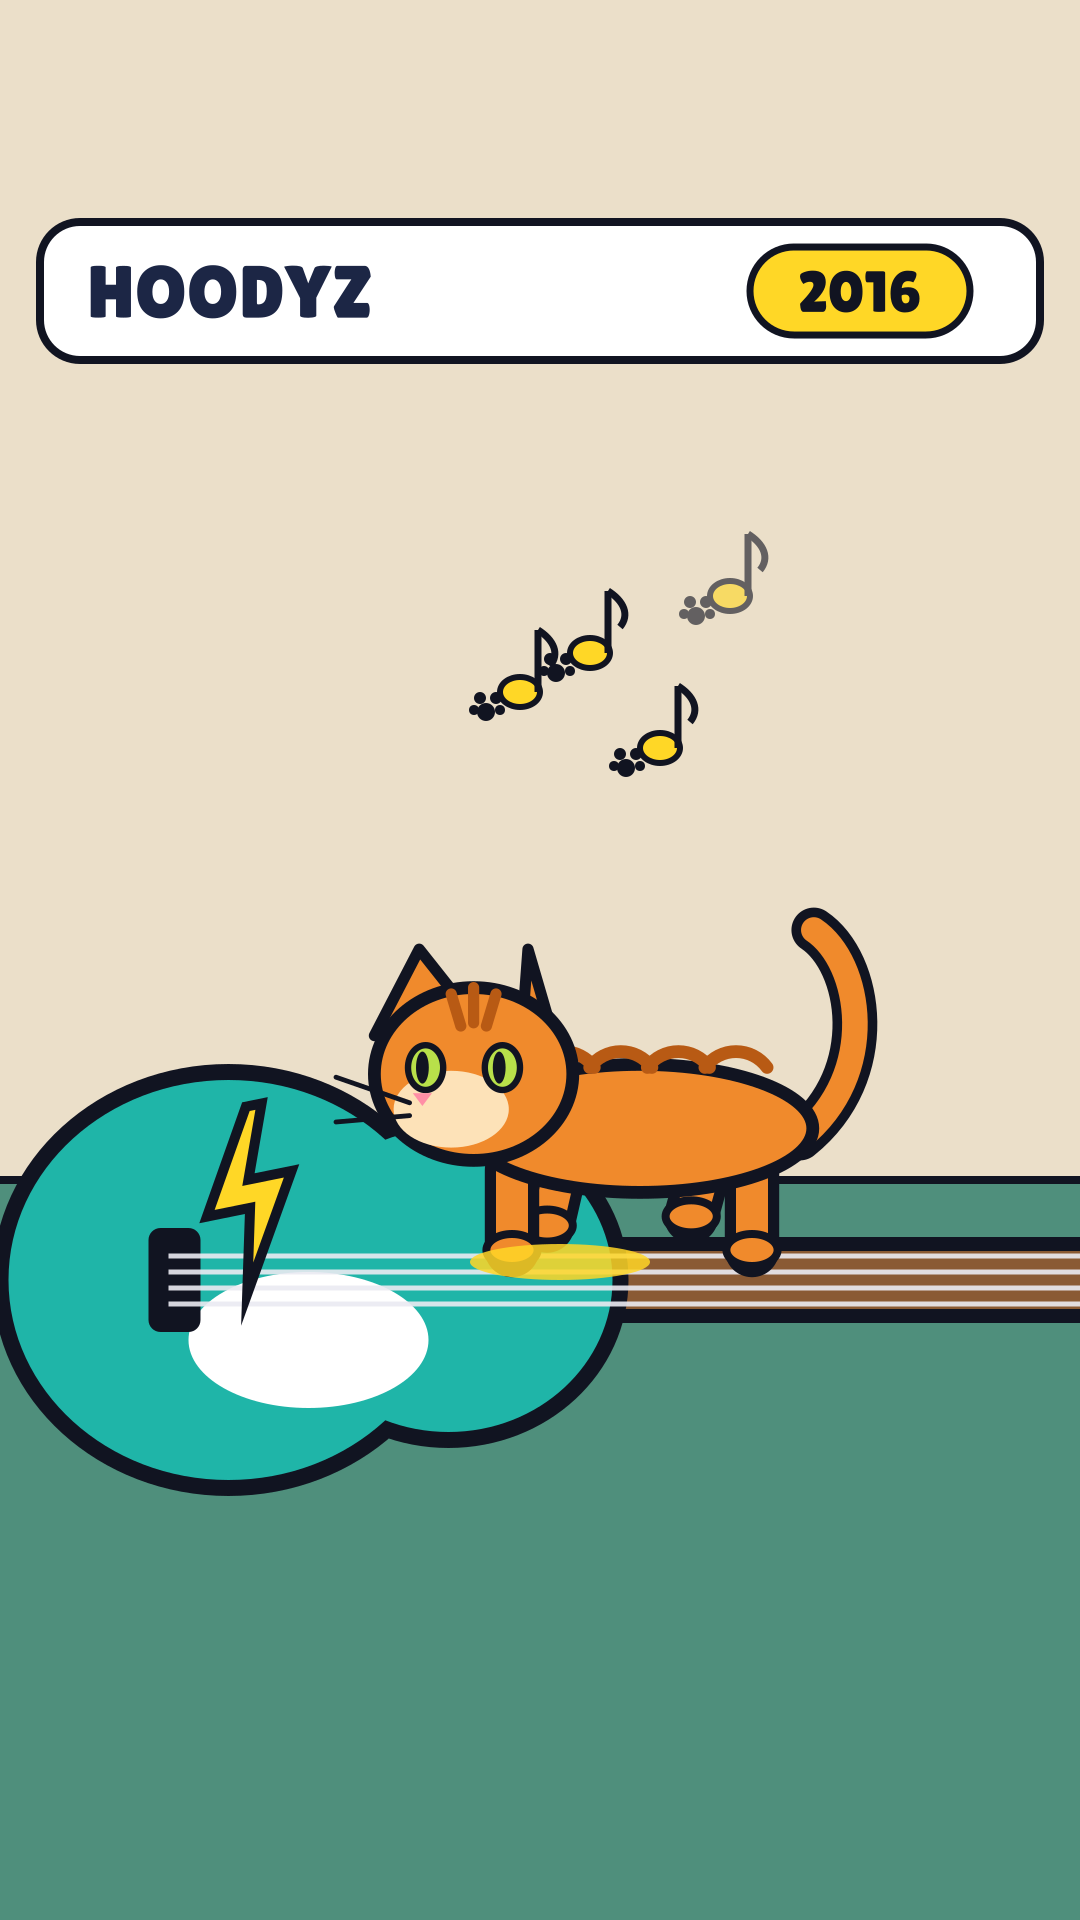
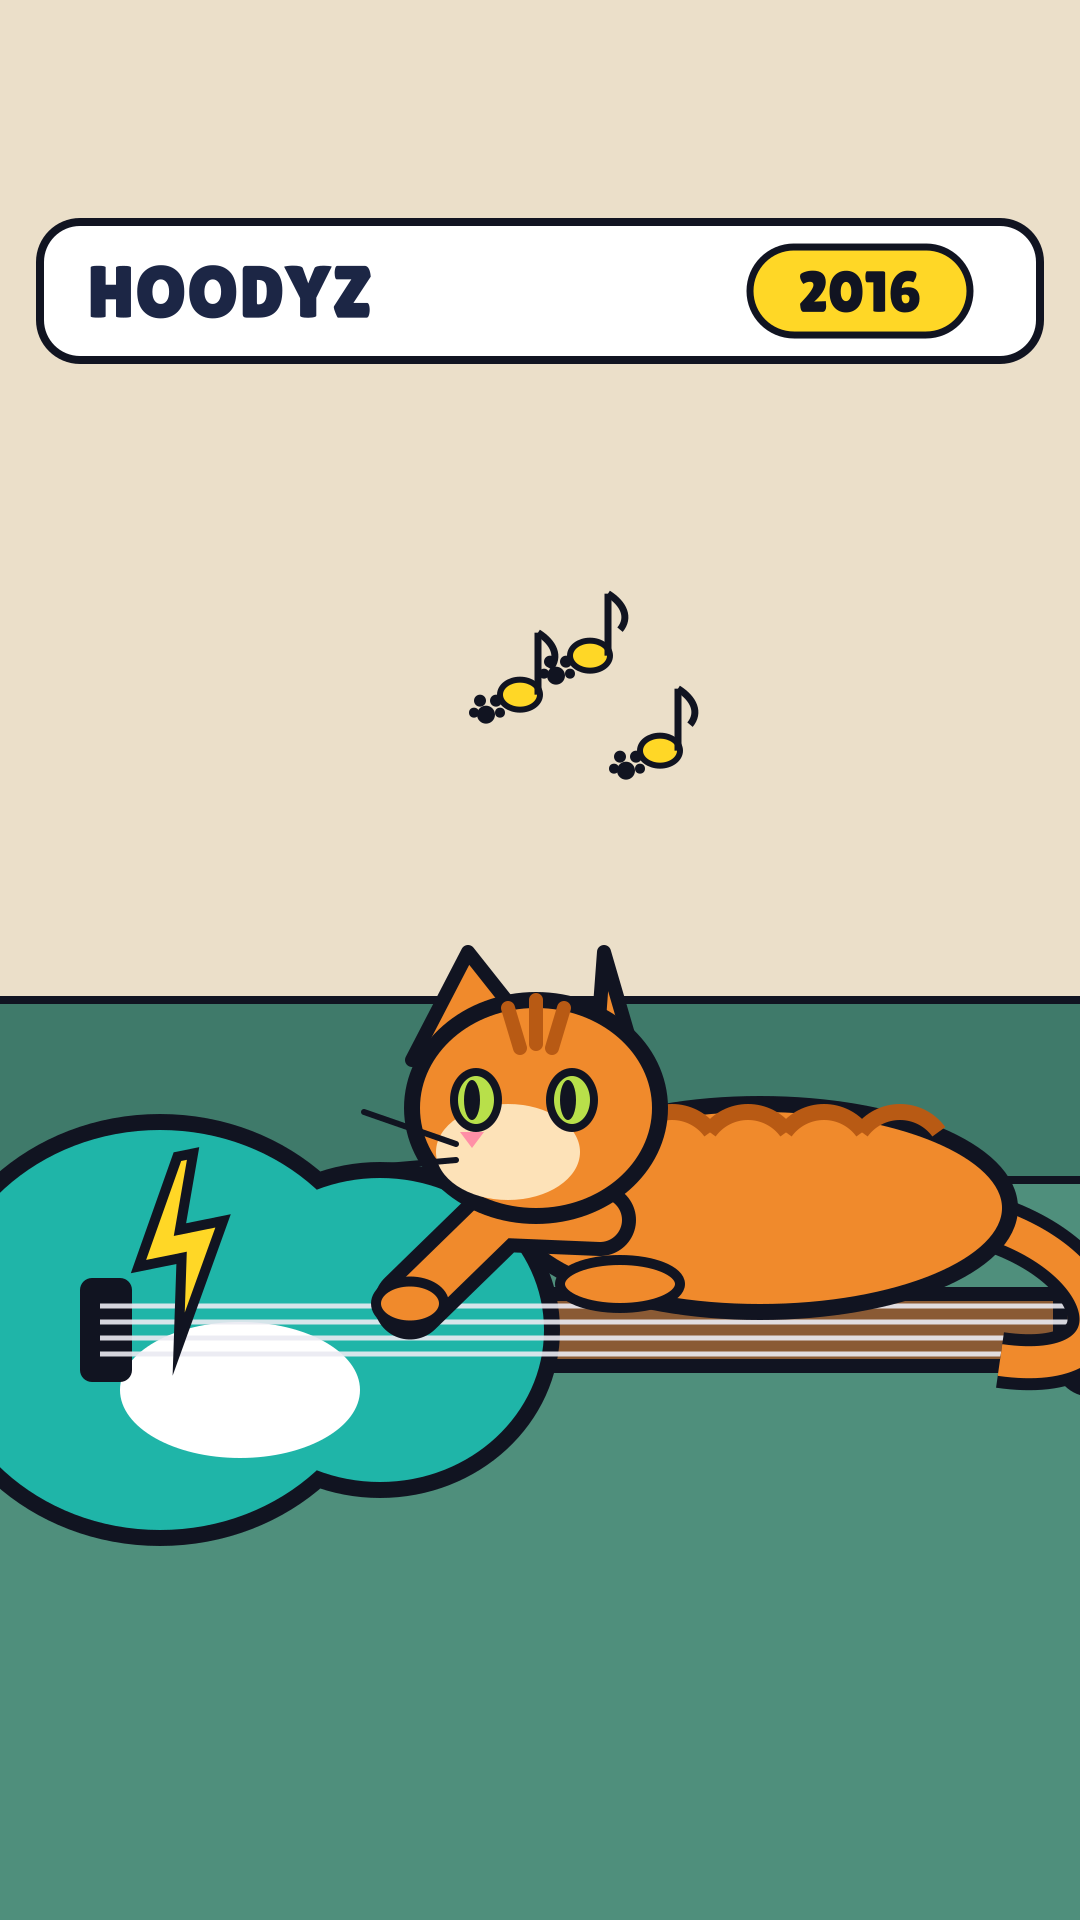
Make It Original v2: stadium fantasy (shots 1, 2, 16), lazy cat with a yawn (shot 7)
Claude-Session: https://claude.ai/code/session_01ED8DLRS3kXn1pdhXqYBM3Q

diff --git a/make-it-original/v2/shots.py b/make-it-original/v2/shots.py
@@ -19,8 +19,8 @@ SHOTS = [(1, 0.0, 0.8), (2, 0.8, 1.9), (3, 1.9, 3.4), (4, 3.4, 3.9), ('ff1', 3.9
          (5, 4.3, 5.3), (6, 5.3, 5.7), (7, 5.7, 7.6), (8, 7.6, 8.3), ('ff2', 8.3, 8.7),
          (9, 8.7, 9.2), (10, 9.2, 11.0), (11, 11.0, 11.5), (12, 11.5, 13.3), (13, 13.3, 14.5),
          (14, 14.5, 15.0), (15, 15.0, 16.0), (16, 16.0, 17.3), (17, 17.3, END)]
-KEY_T = {1: .5, 2: 1.55, 3: 2.75, 4: 3.8, 5: 5.15, 6: 5.55, 7: 6.6, 8: 8.0, 9: 9.0, 10: 9.9, 11: 11.4,
-         12: 12.95, 13: 13.95, 14: 14.85, 15: 15.6, 16: 16.45, 17: 18.6}
+KEY_T = {1: .5, 2: 1.5, 3: 2.75, 4: 3.8, 5: 5.15, 6: 5.55, 7: 6.55, 8: 8.0, 9: 9.0, 10: 9.9, 11: 11.4,
+         12: 12.95, 13: 13.95, 14: 14.85, 15: 15.6, 16: 16.25, 17: 18.6}
 CHARS = True     # False: draw sets only (used for the silhouette check)
 
 # ---------------- lip flap ----------------
@@ -152,12 +152,11 @@ def bar_and_subs(c, t, year):
     sub(c, t, E['orig'], END, "NOW THAT'S ORIGINAL!")
 
 # ---------------- the shots ----------------
-def s1(c, t, f):   # wide 1986, slow push-in
-    k = lerp(1.0, 1.05, t / .8); cam(c, k, 540, 1060, 540, 1060); garage(c, t)
-    if CHARS:
-        drummer_world(c, t, f)
-        hoodyz(c, HX, HGY, HS, 1986, 'rocking', 'play', f, strum=strum_at(t, R86))
-    motif(c, t, R86, 470, 760)
+def s1(c, t, f):   # frame 0: the stadium fantasy, wide, slow push-in
+    k = lerp(1.0, 1.05, t / .8); cam(c, k, 540, 1060, 540, 1060)
+    stadium(c, t, wide=True)
+    if CHARS: hoodyz(c, 540, 1460, 1.0, 1986, 'rocking', 'play', f, strum=strum_at(t, R86))
+    crowd(c, t, 1600); motif(c, t, R86, 620, 820); dream_edge(c)
 
 def portrait(c, t, f, era, pose, expr, strum=0, rot=0, sway=0, lean=0):
     """Matched performance framing (shots 2 and 16): same position, size and sway in both eras."""
@@ -165,12 +164,12 @@ def portrait(c, t, f, era, pose, expr, strum=0, rot=0, sway=0, lean=0):
     if CHARS: hoodyz(c, 540, 1800, 1.7, era, expr, pose, f, strum=strum, head_rot=rot, lean=lean, op=lip('hoodyz', f))
 
 def s2(c, t, f):   # MCU 1986: lost in it, strum hand goes up on the last note
-    bg_garage_close(c)
+    stadium(c, t, wide=False)
     last = R86 + ONSETS[-1]
     pose = 'proud' if t >= last else 'play'
     sway = .03 * math.sin((t - R86) / S16 * math.pi / 2)
     portrait(c, t, f, 1986, pose, 'rocking', strum_at(t, R86), rot=-.1 if t >= last else 0, sway=sway, lean=-.05 if t >= last else 0)
-    motif(c, t, R86, 640, 760, 1.2)
+    crowd(c, t, 1640); motif(c, t, R86, 640, 760, 1.2); dream_edge(c)
 
 def gesture_frame(c, t, f, who, t0, era_bg):
     """Matched gesture framing (shots 3 and 13): the gesturer at the same screen spot, size and arm path."""
@@ -247,19 +246,22 @@ def s6(c, t, f):   # insert: the guitar lands on the couch
             a = math.pi + i * math.pi / 4; c.move_to(380 + math.cos(a) * 200, 1300 + math.sin(a) * 90); c.line_to(380 + math.cos(a) * 280, 1300 + math.sin(a) * 130)
             c.set_source_rgb(*INK); c.set_line_width(8); c.stroke()
 
-def s7(c, t, f):   # low close-up on the paws; the camera pans with the cat
-    c.set_source_rgb(*hx('ebdfc9')); c.paint(); rr(c, -60, 1180, 1200, 760, 60); fs(c, hx('4f8f7c'))
-    tc = t - E['cat16']
-    gx = 150 + max(0, tc + .15) * 230                                       # the guitar slides right = camera follows the cat left
-    guitar(c, gx, 1280, 2.0, rot=0)
-    on = [i for i, o in enumerate(ONSETS) if 0 <= tc - o < .1]
-    if CHARS: cat(c, 640, 1250, 1.6, 'walk', phase=t * 3, paw_down=(on[0] % 4) if on else None, f=f)
-    for i in on:
-        ell(c, 560, 1262, 90, 18); c.set_source_rgba(*YEL, .85); c.fill()
+def s7(c, t, f):   # the lazy cat: lying on the couch, one paw per note, then a yawn
+    c.set_source_rgb(*hx('ebdfc9')); c.paint(); rr(c, -60, 1000, 1200, 300, 60); fs(c, hx('3f7a6a')); rr(c, -60, 1180, 1200, 760, 60); fs(c, hx('4f8f7c'))
+    guitar(c, 300, 1330, 2.0, rot=0)
+    tc = t - E['cat16']; paw = 0
+    for o in ONSETS:
+        d = tc - o
+        if -.08 <= d < 0: paw = max(paw, 1 + d / .08)
+        elif 0 <= d < .15: paw = max(paw, 1 - d / .15 * .7)
+    yawn = math.sin(math.pi * cl((t - 7.25) / .45)) if t > 7.25 else 0
+    if CHARS:
+        tip = lazy_cat(c, 760, 1300, 2.0, paw, yawn, f)
+        if any(0 <= tc - o < .08 for o in ONSETS): ell(c, tip[0], 1330, 80, 18); c.set_source_rgba(*YEL, .85); c.fill()
     for i, ((m, _), on) in enumerate(zip(RIFF, ONSETS)):      # same screen positions as his fragment in shot 5
         dt = t - (E['cat16'] + on)
         if 0 <= dt < 1.6: note_glyph(c, 520 + i * 70, 760 - (m - 60) * 18 - dt * 40, 1.0, YEL, True, cl(dt / .08) * cl((1.6 - dt) / .4))
-    if t >= 7.35: views_badge(c, 640, 640, '10M', (t - 7.35) / .25, col=YEL, size=110)
+    if t >= 7.35: views_badge(c, 540, 600, '10M', (t - 7.35) / .25, col=YEL, size=110)
 
 def s8(c, t, f):   # MCU 2016: deadpan; the cat's 10M on his phone
     room16(c, t); c.save(); cam(c, lerp(1.7, 1.8, (t - 7.6) / .7), HX, 1040, 540, 900)
@@ -316,12 +318,13 @@ def s15(c, t, f):  # insert: the monitor plays the 2016 cat video; the riff star
 
 def s16(c, t, f):  # matched performance: air guitar in the 1986 pose and rhythm
     bg_office_close(c)
+    bloom = ss((t - 16.0) / .25); stadium(c, t, wide=False, k=bloom)       # the fantasy blooms back around him
     last = E['cat26'] + ONSETS[-1]
     pose = 'air' if t >= last else 'airstrum'
     sway = .03 * math.sin((t - E['cat26']) / S16 * math.pi / 2)
     portrait(c, t, f, 2026, pose, 'rocking', strum_at(t, E['cat26']), rot=-.1 if t >= last else 0, sway=sway,
              lean=-.05 if t >= last else 0)
-    motif(c, t, E['cat26'], 640, 760, 1.2, paws=True)
+    crowd(c, t, 1640, k=bloom); motif(c, t, E['cat26'], 640, 760, 1.2, paws=True); dream_edge(c, bloom)
 
 def s17(c, t, f):  # two-shot hold: smug air guitar; the robot looks at him, then at us
     k = lerp(1.25, 1.35, (t - 17.3) / (END - 17.3)); cam(c, k, 520, 1100, 540, 1010)
@@ -348,9 +351,9 @@ def draw(f, chars=True):
     bar_and_subs(c, t, year)
     return s
 
-def shot_name(n): return {1: 'wide 1986', 2: 'MCU, lost in it', 3: 'matched gesture: drummer', 4: 'CU, frozen, deflates', 5: '2016: 3 VIEWS',
-    6: 'guitar lands', 7: 'paws play it', 8: 'deadpan, 10M', 9: 'wide 2026', 10: 'lean-in', 11: 'robot loading', 12: 'recoil',
-    13: 'matched gesture: Hoodyz', 14: 'robot glance', 15: 'cat video', 16: 'matched performance', 17: 'smug hold'}[n]
+def shot_name(n): return {1: 'stadium (fantasy)', 2: 'MCU, stadium', 3: 'matched gesture: drummer', 4: 'CU, frozen, deflates', 5: '2016: 3 VIEWS',
+    6: 'guitar lands', 7: 'lazy paw', 8: 'deadpan, 10M', 9: 'wide 2026', 10: 'lean-in', 11: 'robot loading', 12: 'recoil',
+    13: 'matched gesture: Hoodyz', 14: 'robot glance', 15: 'cat video', 16: 'stadium returns', 17: 'smug hold'}[n]
 
 def keys():
     from PIL import Image, ImageDraw, ImageChops

diff --git a/make-it-original/v2/cast.py b/make-it-original/v2/cast.py
@@ -169,3 +169,68 @@ def views_badge(c, x, y, text, k=1, col=WHITE, size=72):
 
 def back(t):
     t = cl(t); k = 2.2; return 1 + (k + 1) * (t - 1) ** 3 + k * (t - 1) ** 2
+
+# ---------- the fantasy stadium (shots 1, 2 and 16) ----------
+def stadium(c, t, wide=True, k=1.0):
+    """Generic stadium rock fantasy: beams, haze, a crowd of phone lights, a dreamy vignette.
+    No real band's look or logo. k fades the whole layer in (shot 16 blooms into it)."""
+    c.push_group()
+    g = cairo.LinearGradient(0, 0, 0, H); g.add_color_stop_rgb(0, *hx('120a2e')); g.add_color_stop_rgb(.6, *hx('2a0f4a')); g.add_color_stop_rgb(1, *hx('0b0820'))
+    c.set_source(g); c.paint()
+    glow = cairo.RadialGradient(540, 900, 40, 540, 900, 760); glow.add_color_stop_rgba(0, 1, .55, .9, .55); glow.add_color_stop_rgba(1, 1, .55, .9, 0)
+    c.set_source(glow); c.paint()
+    cols = [(1, .3, .6), (.3, .7, 1), (1, .85, .3), (.6, .4, 1), (.3, 1, .8)]
+    ty = 400
+    for i in range(7):   # beams sweeping from the truss
+        x = 120 + i * 140; a = math.sin(t * 1.6 + i * 1.3) * .35 + (i - 3) * .06
+        c.save(); c.translate(x, ty); c.rotate(a)
+        c.move_to(-14, 0); c.line_to(14, 0); c.line_to(240, 1700); c.line_to(-240, 1700); c.close_path()
+        bg = cairo.LinearGradient(0, 0, 0, 1700); r, g_, b = cols[i % 5]
+        bg.add_color_stop_rgba(0, r, g_, b, .45); bg.add_color_stop_rgba(1, r, g_, b, 0); c.set_source(bg); c.fill(); c.restore()
+    c.rectangle(-20, ty - 26, W + 40, 34); c.set_source_rgb(*hx('3a3a4a')); c.fill()          # truss
+    for i in range(7): ell(c, 120 + i * 140, ty + 6, 20, 16); c.set_source_rgb(1, .95, .8); c.fill()
+    if wide:
+        c.rectangle(0, 1450, W, 110); c.set_source_rgb(*hx('1a1426')); c.fill()                # stage
+        c.rectangle(0, 1450, W, 8); c.set_source_rgb(1, .6, .9); c.fill()
+    for i in range(5):   # haze
+        hz = cairo.RadialGradient(200 + i * 200, 1500, 20, 200 + i * 200, 1500, 320)
+        hz.add_color_stop_rgba(0, 1, 1, 1, .12); hz.add_color_stop_rgba(1, 1, 1, 1, 0); c.set_source(hz); c.paint()
+    c.pop_group_to_source(); c.paint_with_alpha(k)
+
+def crowd(c, t, y0=1600, k=1.0, rows=2):
+    """Foreground crowd: head and raised-arm silhouettes with twinkling phone lights."""
+    c.push_group()
+    for r_ in range(rows):
+        yy = y0 + r_ * 120
+        for i in range(12):
+            x = (i * 97 + r_ * 48) % (W + 60) - 30; bob = math.sin(t * 8 + i * 1.7) * 10
+            ell(c, x, yy + bob, 46, 52); c.set_source_rgb(*hx('07050f')); c.fill()
+            c.rectangle(x - 46, yy + 40 + bob, 92, 400); c.fill()
+            if (i + r_) % 3 == 0:
+                c.move_to(x + 30, yy + 20 + bob); c.line_to(x + 50, yy - 110 + bob); c.set_line_width(24); c.stroke()
+                tw = .6 + .4 * math.sin(t * 6 + i * 2)
+                rr(c, x + 38, yy - 150 + bob, 26, 40, 5); c.set_source_rgba(1, 1, .85, tw); c.fill(); c.set_source_rgb(*hx('07050f'))
+    c.pop_group_to_source(); c.paint_with_alpha(k)
+
+def dream_edge(c, k=1.0):
+    v = cairo.RadialGradient(540, 960, 420, 540, 960, 1150)
+    v.add_color_stop_rgba(0, 0, 0, 0, 0); v.add_color_stop_rgba(1, .9, .7, 1, .35 * k); c.set_source(v); c.paint()
+
+# ---------- the lazy cat (shot 7) ----------
+def lazy_cat(c, x, gy, s, paw=0.0, yawn=0.0, f=0, look=-1):
+    """Lying on the couch, chin up, one front paw dropping onto the strings. paw: 1 = pressed down.
+    yawn 0..1 opens a big yawn with closed eyes. Returns the paw tip (canvas coords)."""
+    c.save(); c.translate(x, gy); c.scale(s * look, s)
+    c.move_to(-110, -40); c.curve_to(-180, -20, -190, 40, -120, 30)                            # tail curled behind
+    c.set_source_rgb(*INK); c.set_line_width(28); c.stroke_preserve(); c.set_source_rgb(*TABBY); c.set_line_width(16); c.stroke()
+    ell(c, 0, -46, 125, 52); fs(c, TABBY)
+    for i in range(4): c.arc(-70 + i * 38, -70, 24, math.pi * 1.2, math.pi * 1.8); c.set_source_rgb(*TABBY_D); c.set_line_width(8); c.stroke()
+    ell(c, 70, -8, 30, 12); fs(c, TABBY, 5)                                                     # tucked paw
+    tip = (175, lerp(-60, 18, paw))                                                             # the lazy paw: presses into the strings
+    limb(c, [(80, -40), (130, -50 + 10 * paw), tip], 22, TABBY); ell(c, tip[0], tip[1], 17, 11); fs(c, TABBY, 5)
+    kit._cat_head(c, 112, -96, 1.0, False, 'sleep' if yawn > .25 else 'open', f)
+    if yawn > 0:
+        ell(c, 126, -72, 15 * yawn + 2, 22 * yawn + 2); fs(c, hx('7a2230'), 5)
+        ell(c, 126, -66, 8 * yawn, 8 * yawn); c.set_source_rgb(*hx('ff8fa6')); c.fill()
+    c.restore()
+    return (x + look * tip[0] * s, gy + tip[1] * s)
